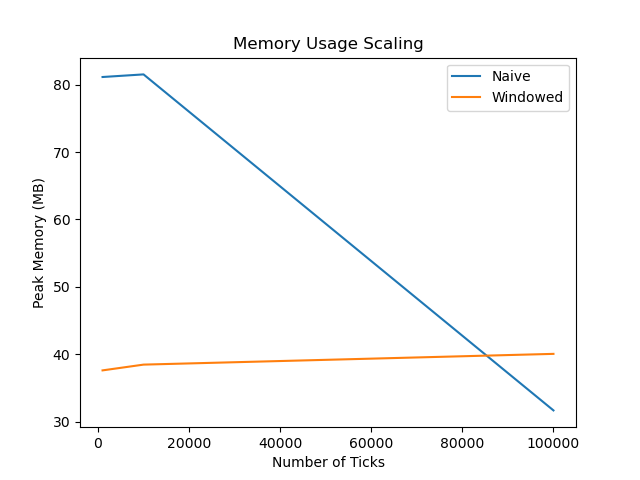
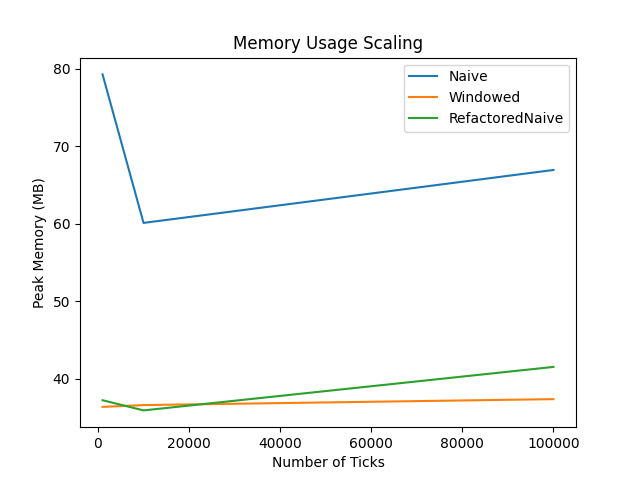
optimization challenge

diff --git a/tests/test_performance.py b/tests/test_performance.py
@@ -9,13 +9,40 @@ import pytest
 from datetime import datetime
 
 from models import MarketDataPoint
-from strategies import WindowedMovingAverageStrategy
+from strategies import WindowedMovingAverageStrategy, OptimizedNaiveMovingAverageStrategy
 from memory_profiler import memory_usage
 
 
-@pytest.mark.slow
 def test_windowed_strategy_performance():
     strategy = WindowedMovingAverageStrategy(window_size=10)
+
+    data = [
+        MarketDataPoint(
+            timestamp=datetime.now(),
+            symbol="AAPL",
+            price=float(i % 100),
+        )
+        for i in range(100_000)
+    ]
+
+    gc.collect()
+
+    start = time.perf_counter()
+
+    mem_peak = memory_usage(
+        (lambda: [strategy.generate_signals(t) for t in data],),
+        max_usage=True
+    )
+
+    elapsed = time.perf_counter() - start
+
+    
+    assert mem_peak < 100.0, f"Memory too high: {mem_peak:.2f}MB"
+    assert elapsed < 1.0, f"Runtime too slow: {elapsed:.2f}s"
+
+
+def test_optimized_naive_strategy_performance():
+    strategy = OptimizedNaiveMovingAverageStrategy()
 
     data = [
         MarketDataPoint(

diff --git a/strategies.py b/strategies.py
@@ -67,3 +67,35 @@ class WindowedMovingAverageStrategy(Strategy):
             return ["BUY"]
         else:
             return ["SELL"]
+
+class OptimizedNaiveMovingAverageStrategy(Strategy):
+    """
+    Refactored Naive moving average strategy using running sum 
+        - attempting to pass 1 sec time test while keeping full price history
+
+    Time Complexity:
+        - Per tick: O(1)
+
+    Space Complexity:
+        - O(n) (stores full price history)
+    """
+
+    def __init__(self):
+        self.prices = []
+        self.running_sum = 0.0
+
+    def generate_signals(self, tick: MarketDataPoint) -> List[str]:
+        # O(1): append price
+        self.prices.append(tick.price)
+        self.running_sum += tick.price
+
+        # O(1): recompute average with the running sum, avoid repeating operations
+        #avg_price = sum(self.running_sum / len(self.prices))
+
+        avg_price = self.running_sum / len(self.prices)
+        
+        if tick.price > avg_price:
+            return ["BUY"]
+        else:
+            return ["SELL"]
+        

diff --git a/main.py b/main.py
@@ -13,18 +13,20 @@ from data_loader import load_market_data
 from strategies import (
     NaiveMovingAverageStrategy,
     WindowedMovingAverageStrategy,
+    OptimizedNaiveMovingAverageStrategy
 )
 from profiler import profile_runtime, profile_memory
 from reporting import plot_runtime, plot_memory, results_table 
 
 
 def main():
-    data = load_market_data("market_data.csv")
+    data = load_market_data("data/market_data.csv")
     #print(data[:5])  # Print first 5 data points as a sample
 
     strategies = {
         "Naive": NaiveMovingAverageStrategy(),
         "Windowed": WindowedMovingAverageStrategy(window_size=10),
+        "RefactoredNaive" : OptimizedNaiveMovingAverageStrategy()
     }
 
     input_sizes = [1000, 10_000, 100_000]
@@ -46,7 +48,6 @@ def main():
             results[name]["memory"].append(
                 profile_memory(strategy, subset)
             )
-    #print(results["Naive"])
 
     plot_runtime(results)
     plot_memory(results)

diff --git a/tests/test_strategies.py b/tests/test_strategies.py
@@ -9,6 +9,7 @@ from models import MarketDataPoint
 from strategies import (
     NaiveMovingAverageStrategy,
     WindowedMovingAverageStrategy,
+    OptimizedNaiveMovingAverageStrategy
 )
 
 
@@ -30,12 +31,16 @@ def test_strategies_produce_same_signals():
 
     naive = NaiveMovingAverageStrategy()
     windowed = WindowedMovingAverageStrategy(window_size=len(prices))
+    optimized_naive = OptimizedNaiveMovingAverageStrategy()
 
     naive_signals = []
     windowed_signals = []
+    optimized_naive_signals = []
 
     for tick in ticks:
         naive_signals.append(naive.generate_signals(tick))
         windowed_signals.append(windowed.generate_signals(tick))
+        optimized_naive_signals.append(optimized_naive.generate_signals(tick))
 
     assert naive_signals == windowed_signals
+    assert naive_signals == optimized_naive_signals

diff --git a/reporting.py b/reporting.py
@@ -16,7 +16,7 @@ def plot_runtime(results):
     plt.xlabel("Number of Ticks")
     plt.ylabel("Runtime (seconds)")
     plt.legend()
-    plt.savefig("runtime_scaling.png")
+    plt.savefig("output/runtime_scaling.png")
     plt.clf()
 
 
@@ -31,10 +31,10 @@ def plot_memory(results):
     plt.xlabel("Number of Ticks")
     plt.ylabel("Peak Memory (MB)")
     plt.legend()
-    plt.savefig("memory_scaling.png")
+    plt.savefig("output/memory_scaling.png")
     plt.clf()
 
-def results_table(results, output_path="results_table.md"):
+def results_table(results, output_path="output/results_table.md"):
     """
     Generate markdown table of results, save to file.
     """

diff --git a/README.md b/README.md
@@ -1,2 +1,27 @@
 # runtime-space-complexity
 MS-ADS Realtime Intelligent Systems Assignment 2
+
+- Design and implement a Python module that ingests market data from a CSV file and applies multiple trading strategies with varying runtime and space complexities. You will analyze, compare, and optimize the performance of these strategies using profiling tools and theoretical Big-O analysis. The goal is to understand how algorithmic design choices affect both execution time and memory usage in financial systems.
+
+- This assignment emphasizes computational efficiency, profiling, and performance visualization—critical skills for building scalable trading infrastructure.
+
+## Environment Set Up 
+- Create and activate a virtual environment in the project root
+- Run the following command to install required pachages: 
+    pip install -r requirements.txt
+
+## Data Generation
+- To generate synthetic market data, run: python generate_data.py
+- Alternatively, use data/market_data.csv, which has already been generated using this process 
+
+## How to Run the Process
+- to execute the entire process, run: python main.py 
+- This will execute: 
+    - Loading the market data
+    - Running the strategies on different subsets of the data
+    - Recording and visualising the results 
+
+## How to Run tests
+- run: pytest
+- pytest will automatically detect the unit test files in the test/ folder
+- PASS/FAIL results will display in terminal

diff --git a/complexity_report.md b/complexity_report.md
@@ -41,9 +41,9 @@ The windowed moving average strategy uses a fixed window size to maintain a runn
 
 ### Scaling Behavior Plots
 
-![Runtime Scaling](runtime_scaling.png)
+![Runtime Scaling](output/runtime_scaling.png)
 
-![Memory Scaling](memory_scaling.png)
+![Memory Scaling](output/memory_scaling.png)
 
 
 ### Narrative Comparison
@@ -57,10 +57,11 @@ As the number of ticks approaches 100,000, the two strategies exhibit some unexp
 Test 1: Performance
 - PASSED: memory usage is  <100MB memory for 100k ticks
 - FAILED: Naive strategy does not run under 1 s
-    - After refactoring Naive: 
+    - After refactoring Naive: PASSED
 
 Test 2: Profiling 
-- PASSED: Expected hotspots and memory peaks
+- PASSED: Expected hotspots and memory peaks in Naive strategy
 
 Test 3: Strategies
 - PASSED: Naive and Windowed strategies compute the same trading recommendation.
+- PASSED: Naive and Refactored Naive strategies computer the same trading recommendation

diff --git a/output/results_table.md b/output/results_table.md
@@ -1,8 +1,11 @@
 | Strategy | Input Size | Runtime (s) | Memory (MB) |
 |---|---|---|---|
-| Naive | 1000 | 0.003609 | 81.12 |
-| Naive | 10000 | 0.539055 | 81.51 |
-| Naive | 100000 | 45.787493 | 31.69 |
-| Windowed | 1000 | 0.001179 | 37.62 |
-| Windowed | 10000 | 0.009278 | 38.48 |
-| Windowed | 100000 | 0.096024 | 40.07 |
+| Naive | 1000 | 0.001321 | 79.28 |
+| Naive | 10000 | 0.282522 | 60.12 |
+| Naive | 100000 | 18.305933 | 66.95 |
+| Windowed | 1000 | 0.000225 | 36.39 |
+| Windowed | 10000 | 0.002044 | 36.62 |
+| Windowed | 100000 | 0.020358 | 37.39 |
+| RefactoredNaive | 1000 | 0.000177 | 37.25 |
+| RefactoredNaive | 10000 | 0.001531 | 35.94 |
+| RefactoredNaive | 100000 | 0.015700 | 41.55 |
